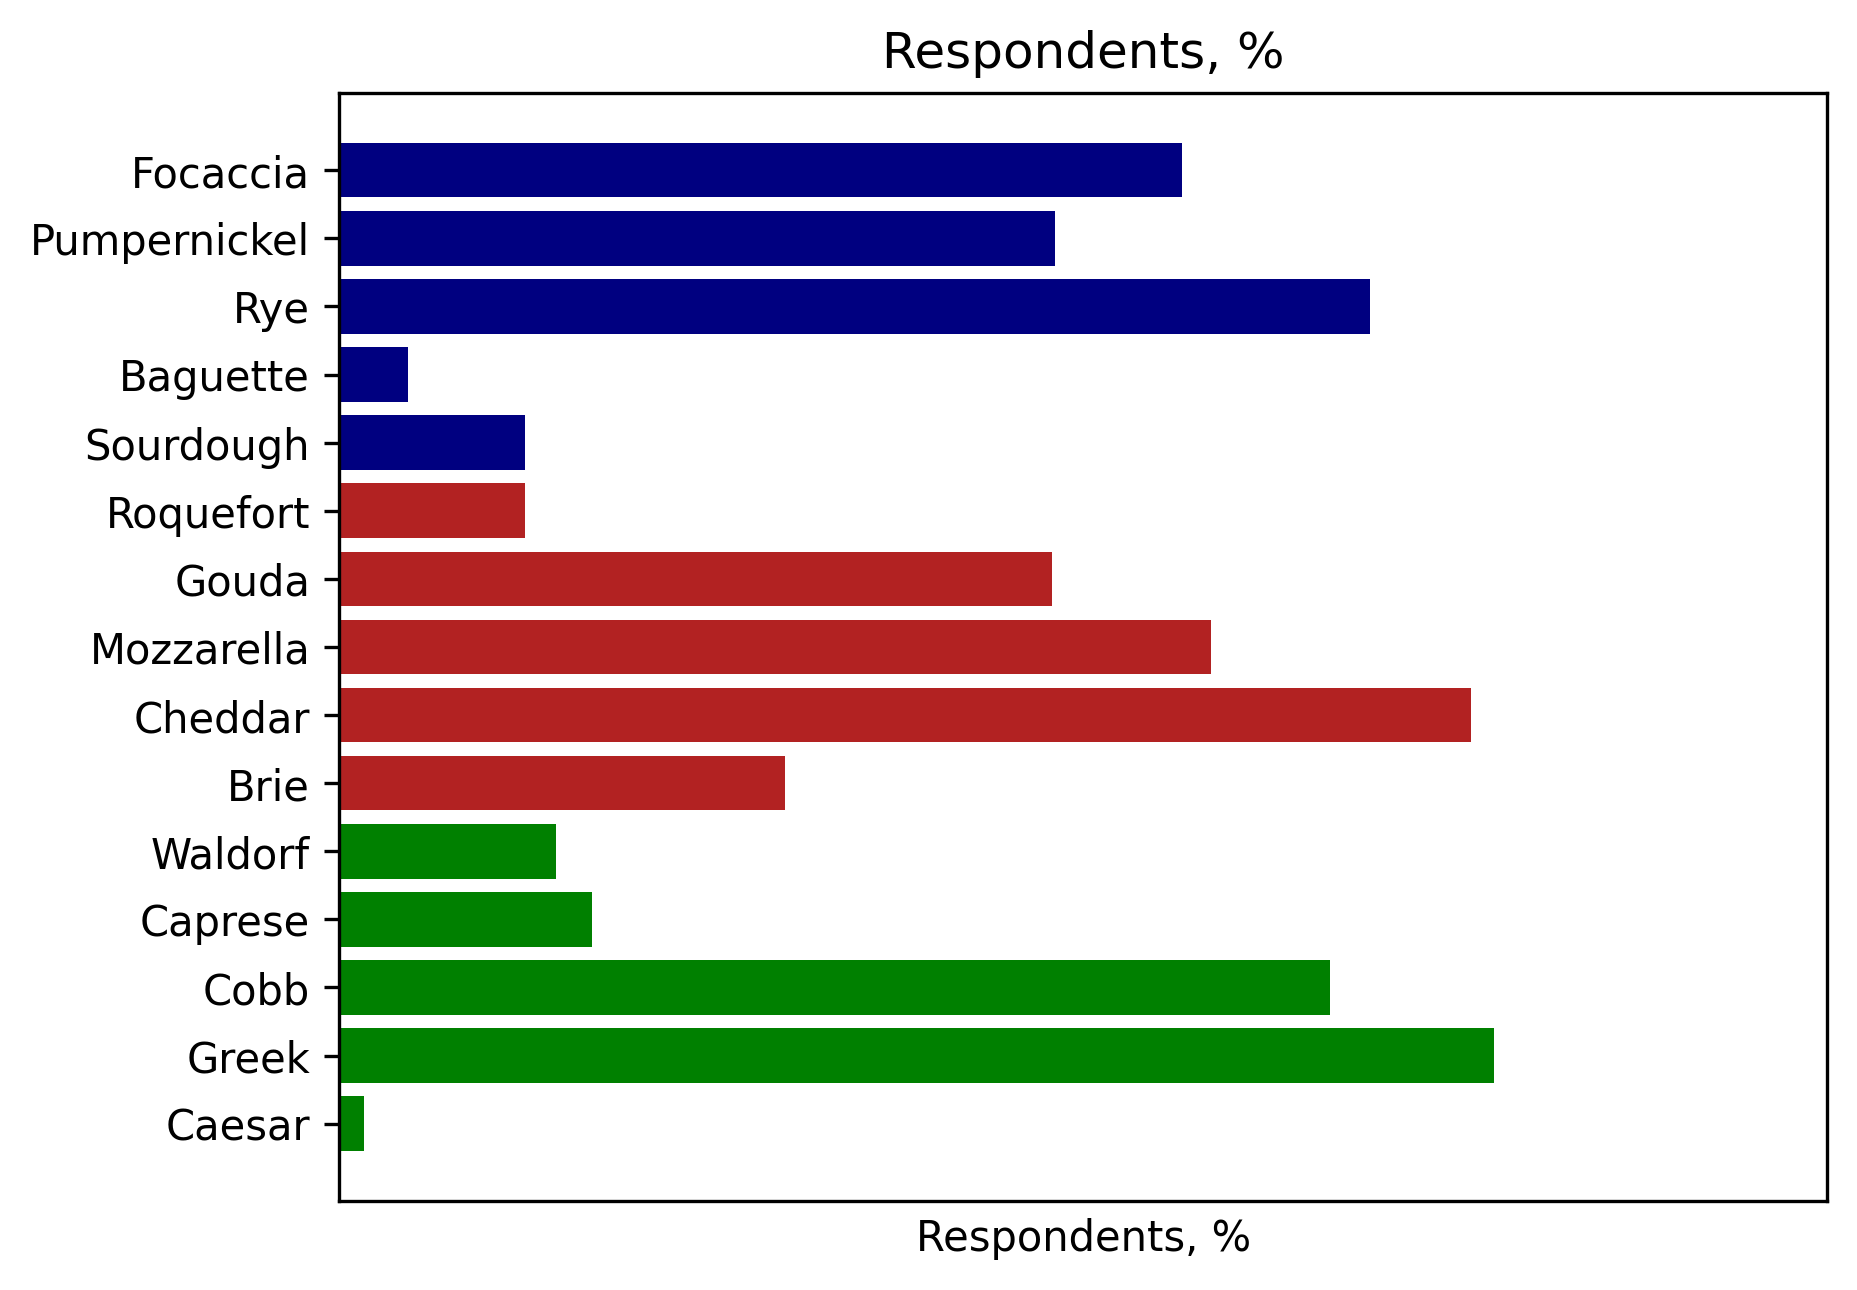
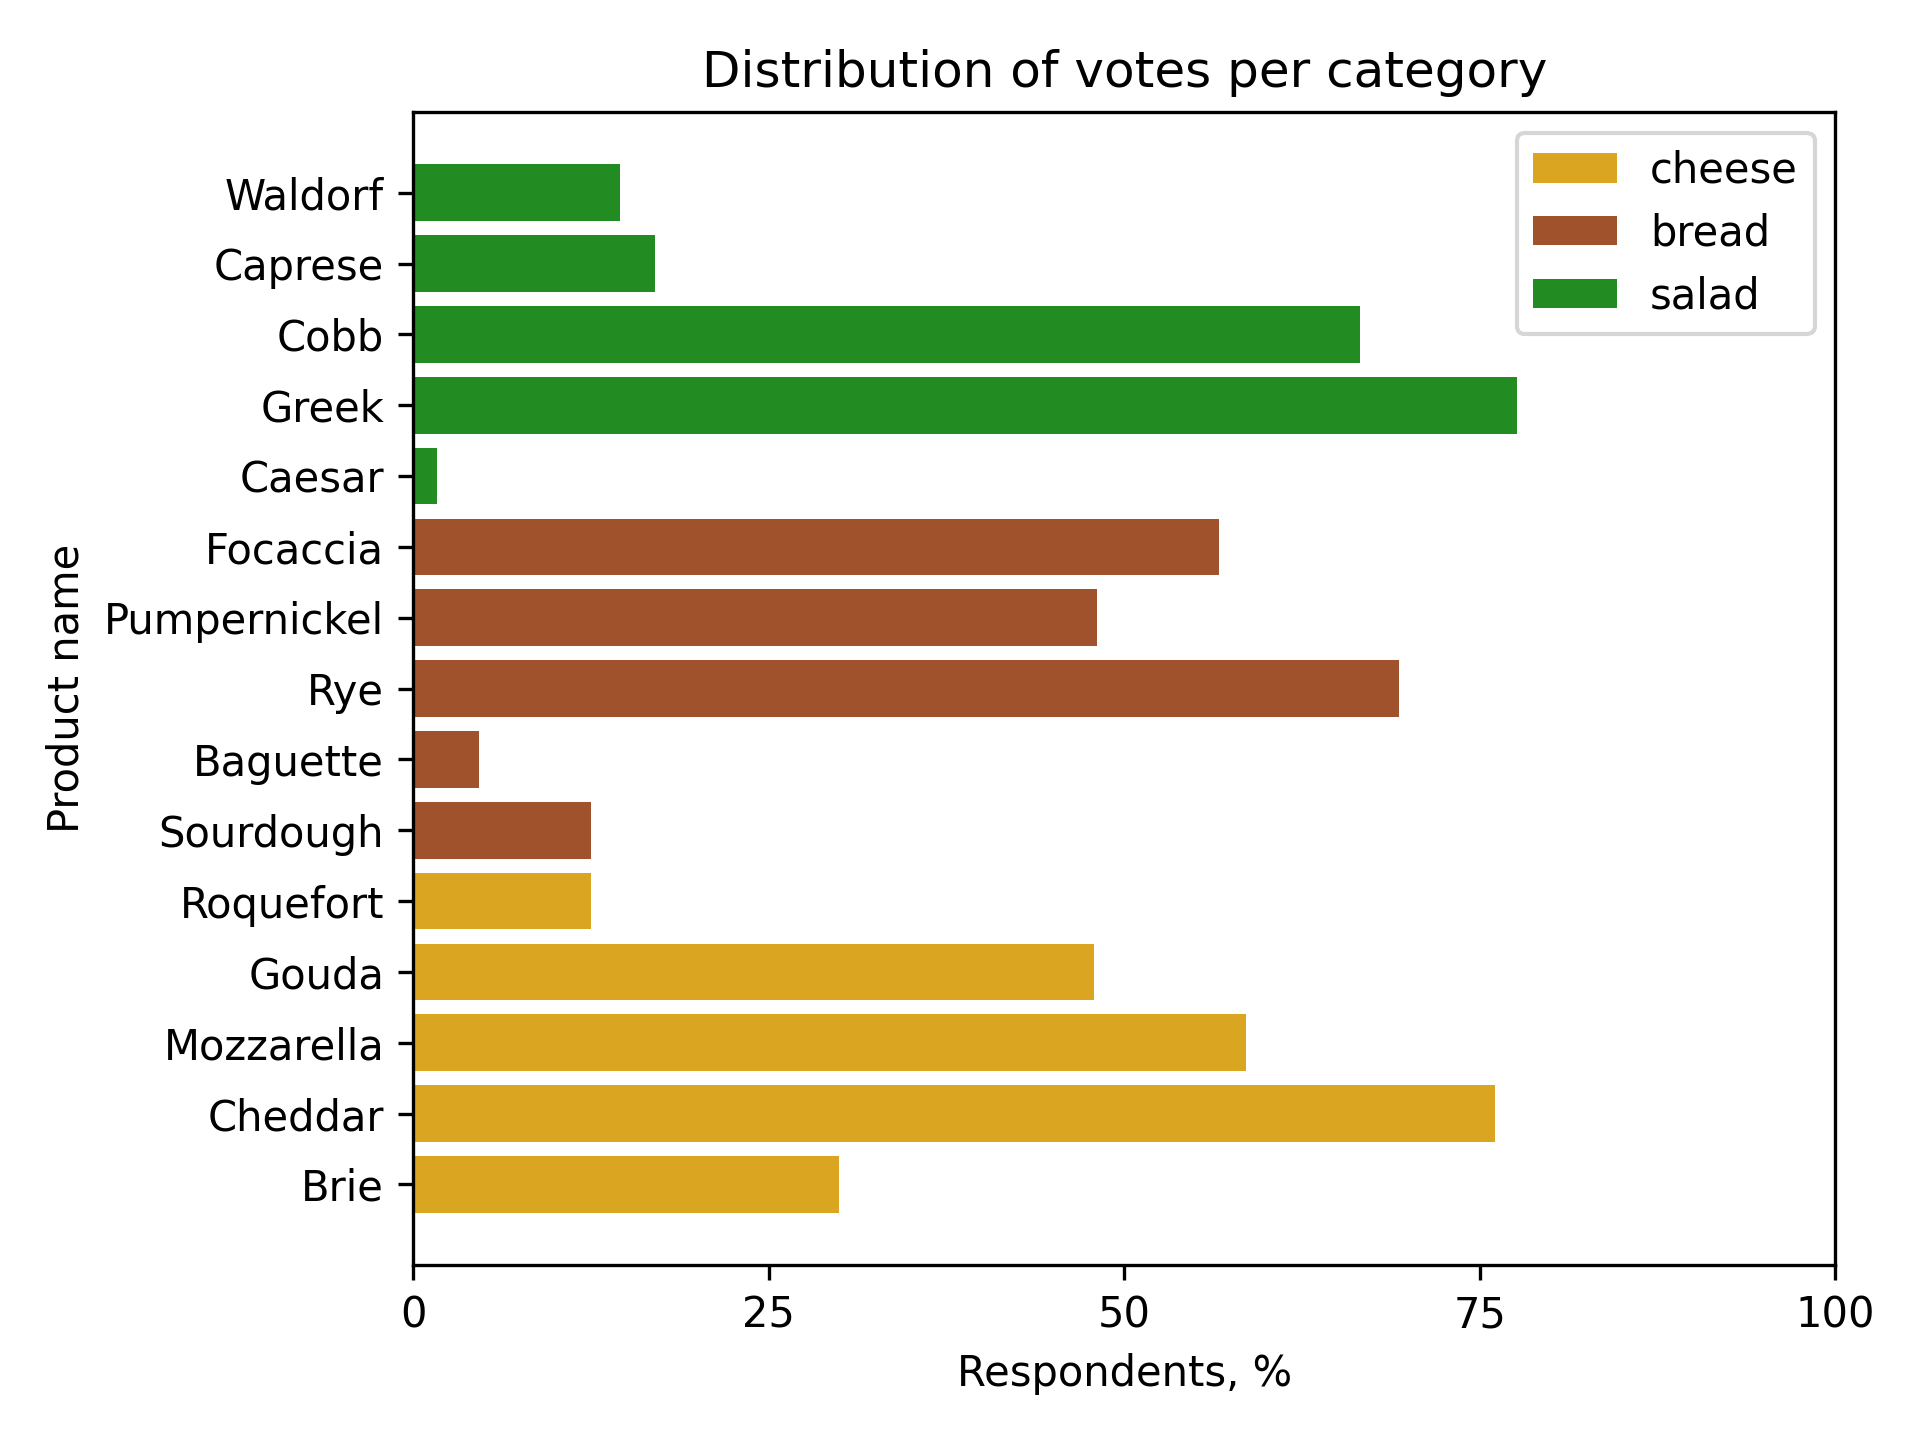
fix: fix PR issues

diff --git a/2_2_bar_and_pie_charts_matplotlib/2_practice/1_base_barplot/tests/test_task.py b/2_2_bar_and_pie_charts_matplotlib/2_practice/1_base_barplot/tests/test_task.py
@@ -5,7 +5,7 @@ import matplotlib.pyplot as plt
 import pandas as pd
 
 from common.base_test_mixins import BaseTestMixin
-from data import get_categories_sorted, get_category_products, get_category_votes, read
+from data import get_categories, get_category_product_names, get_category_size, get_category_votes, read
 from task import plot
 
 
@@ -18,7 +18,6 @@ class TestCase(BaseTestMixin):
         data = read()
         cls.fig = plot(data)
         cls.data = data
-        cls.sorted_categories = get_categories_sorted()
 
     def test_1_1_return_type(self):
         self.checkReturnType(self.fig, expected_type=plt.Figure, expected_function="plt.barh")
@@ -31,51 +30,61 @@ class TestCase(BaseTestMixin):
         self.checkNumberOfLines(self.fig.axes[0], 0)
 
         self.checkNumberOfContainers(self.fig.axes[0], 3)
-        self.checkContainerType(self.fig.axes[0], BarContainer)
-        for container in self.fig.axes[0].containers:
-            self.assertEqual(
-                len(container.datavalues),
-                5,
-                "Each container must have exactly 5 bars.",
+        for i in range(3):
+            self.checkContainerType(self.fig.axes[0], BarContainer, container_number=i)
+
+    def test_1_4_bar_layout(self):
+        self.checkBarLayout(self.fig.axes[0], expected_layout="horizontal")
+
+    def test_2_1_bar_values(self):
+        for i, category in enumerate(get_categories(self.data)):
+            expected_positions = get_category_votes(self.data, category)
+            self.checkBarValues(self.fig.axes[0], expected_positions, container_number=i)
+
+    def test_2_2_bar_position(self):
+        offset = 0
+        for i, category in enumerate(get_categories(self.data)):
+            category_size = get_category_size(self.data, category)
+
+            self.checkBarPositions(
+                self.fig.axes[0],
+                list(range(offset, offset + category_size)),
+                axis="y",
+                container_number=i,
             )
 
-    # TODO: Add test for bars positions
-    def test_2_1_bar_position(self):
-        for index in range(3):
-            expected_positions = get_category_votes(self.data, self.sorted_categories[index])
-            self.checkBarsPosition(self.fig.axes[0], expected_positions, container_number=index)
+            offset += category_size
 
-    def test_2_2_bar_layout(self):
-        self.checkBarsLayout(self.fig.axes[0], expected_layout="horizontal")
+    def test_2_3_bar_colors(self):
+        for i, color in enumerate(["goldenrod", "sienna", "forestgreen"]):
+            expected_colors = [color] * 5
+            self.checkBarColor(self.fig.axes[0], expected_facecolors=expected_colors, container_number=i)
 
-    def test_2_3_bar_labels(self):
-        all_labels = []
-        for category in self.sorted_categories:
-            all_labels.extend(get_category_products(self.data, category))
-        self.checkTickLabels(self.fig.axes[0], all_labels, axis="y")
+    def test_3_1_y_ticks(self):
+        expected_labels = []
+        number_of_products = 0
+        for category in get_categories(self.data):
+            expected_labels.extend(get_category_product_names(self.data, category))
+            number_of_products += get_category_size(self.data, category)
 
-    def test_2_4_bar_colors(self):
-        expected_colors = []
-        for color in ["green", "firebrick", "navy"]:
-            expected_colors.extend([color] * 5)
-        self.checkBarsColor(self.fig.axes[0], expected_facecolors=expected_colors)
+        self.checkTicks(self.fig.axes[0], list(range(number_of_products)), axis="y")
+        self.checkTickLabels(self.fig.axes[0], expected_labels, axis="y")
 
-    def test_3_1_labels(self):
-        self.checkLabel(self.fig.axes[0], "Respondents, %", "x")
+    def test_3_2_y_label(self):
+        self.checkLabel(self.fig.axes[0], "Product name", axis="y")
 
-    def test_3_2_x_lim(self):
+    def test_4_1_x_lim(self):
         self.checkLim(self.fig.axes[0], [0, 100], "x")
 
-    def test_3_3_x_ticks(self):
-        self.checkTicks(self.fig.axes[0], [], "x")
+    def test_4_2_x_ticks(self):
+        self.checkTicks(self.fig.axes[0], list(range(0, 101, 25)), axis="x")
+        self.checkTickLabels(self.fig.axes[0], list(map(str, range(0, 101, 25))), axis="x")
 
-    def test_3_4_y_ticks(self):
-        expected_positions = list(range(15))
-        expected_labels = []
-        for category in self.sorted_categories:
-            expected_labels.extend(get_category_products(self.data, category))
-        self.checkTicks(self.fig.axes[0], expected_positions, "y")
-        self.checkTickLabels(self.fig.axes[0], expected_labels, "y")
+    def test_4_3_x_label(self):
+        self.checkLabel(self.fig.axes[0], "Respondents, %", "x")
 
-    def test_4_title(self):
-        self.checkTitle(self.fig.axes[0], "Respondents, %")
+    def test_5_title(self):
+        self.checkTitle(self.fig.axes[0], "Distribution of votes per category")
+
+    def test_6_legend(self):
+        self.checkLegendExists(self.fig.axes[0])

diff --git a/2_2_bar_and_pie_charts_matplotlib/2_practice/1_base_barplot/task.py b/2_2_bar_and_pie_charts_matplotlib/2_practice/1_base_barplot/task.py
@@ -1,46 +1,55 @@
 import matplotlib.pyplot as plt
 import pandas as pd
 
-from data import get_categories_sorted, get_category_products, get_category_size, get_category_votes, read
+from data import get_categories, get_category_product_names, get_category_size, get_category_votes, read
 
 
-def plot_region(ax: plt.Axes, data: pd.DataFrame, category: str, color: str, trace: int = 0):
-    category_votes = get_category_votes(data, category)
-    category_size = get_category_size(data, category)
+def plot_category(ax: plt.Axes, votes: pd.DataFrame, category: str, color: str, offset: int = 0):
+    category_votes = get_category_votes(votes, category)
+    category_size = get_category_size(votes, category)
 
     ax.barh(
-        [x + trace for x in range(category_size)],
+        [x + offset for x in range(category_size)],
         category_votes,
         color=color,
+        label=category,
     )
 
 
 def plot(votes: pd.DataFrame) -> plt.Figure:
     fig, ax = plt.subplots()
-    categories_sorted = get_categories_sorted()
 
     colors = {
-        "salad": "green",
-        "cheese": "firebrick",
-        "bread": "navy",
+        "bread": "sienna",
+        "cheese": "goldenrod",
+        "salad": "forestgreen",
     }
 
-    all_y_coordinates = []
-    all_labels = []
+    y_tick_coordinates = []
+    y_tick_labels = []
 
-    for i, category in enumerate(categories_sorted):
+    offset = 0
+    for category in get_categories(votes):
         category_size = get_category_size(votes, category)
-        plot_region(ax, votes, category, colors[category], i * category_size)
 
-        all_labels.extend(get_category_products(votes, category))
-        all_y_coordinates.extend([i * category_size + x for x in range(category_size)])
+        plot_category(ax, votes, category, colors[category], offset)
 
-    ax.set_xticks([])
-    ax.set_title("Respondents, %")
-    ax.set_xlabel("Respondents, %")
+        y_tick_labels.extend(get_category_product_names(votes, category))
+        y_tick_coordinates.extend([x + offset for x in range(category_size)])
+
+        offset += category_size
+
+    ax.set_yticks(y_tick_coordinates, y_tick_labels)
+    ax.set_ylabel("Product name")
+
     ax.set_xlim(0, 100)
-    ax.set_yticks(all_y_coordinates)
-    ax.set_yticklabels(all_labels)
+    ax.set_xticks(range(0, 101, 25))
+    ax.set_xlabel("Respondents, %")
+
+    ax.set_title("Distribution of votes per category")
+    ax.legend()
+
+    fig.tight_layout()
 
     return fig
 
@@ -49,7 +58,7 @@ def main():
     votes = read()
 
     fig = plot(votes)
-    fig.savefig("plot.png", dpi=300, bbox_inches="tight")
+    fig.savefig("plot.png", dpi=300)
 
 
 if __name__ == "__main__":

diff --git a/2_2_bar_and_pie_charts_matplotlib/2_practice/1_base_barplot/data.py b/2_2_bar_and_pie_charts_matplotlib/2_practice/1_base_barplot/data.py
@@ -4,20 +4,20 @@ from common.paths import FOOD_DATASET_PATH
 
 
 def read() -> pd.DataFrame:
-    return pd.read_csv(FOOD_DATASET_PATH, index_col=0)
+    return pd.read_csv(FOOD_DATASET_PATH)
 
 
 def get_category_votes(data: pd.DataFrame, category: str) -> pd.Series:
-    return data[data["food"] == category]["proportion"]
+    return data[data["category"] == category]["votes"]
 
 
-def get_category_products(data: pd.DataFrame, category: str) -> pd.DataFrame:
-    return data[data["food"] == category]["value"]
+def get_category_product_names(data: pd.DataFrame, category: str) -> pd.DataFrame:
+    return data[data["category"] == category]["name"]
 
 
 def get_category_size(data: pd.DataFrame, category: str) -> int:
-    return data[data["food"] == category].shape[0]
+    return len(data[data["category"] == category])
 
 
-def get_categories_sorted() -> list:
-    return ["salad", "cheese", "bread"]
+def get_categories(data: pd.DataFrame) -> list:
+    return list(data["category"].unique())

diff --git a/2_2_bar_and_pie_charts_matplotlib/2_practice/1_base_barplot/task.md b/2_2_bar_and_pie_charts_matplotlib/2_practice/1_base_barplot/task.md
@@ -1,25 +1,36 @@
 ## Task
 
-At a recent tasting event, participants were invited to sample an assortment of breads, cheeses, and salads. Everyone
-had the chance to vote for as many items as they liked, sharing their favorites among the diverse offerings. The
-organizers of a tasting event received all the responses, calculated themselves the percentage of votes for each product
-in each category (so that they know the corresponding distribution along cheese, bread and salad). Now they want us to
-help
-with plotting the data. Let's assist them!
+At a recent tasting event, participants were invited to sample an assortment of breads, cheeses, and salads.
+Everyone had the chance to vote for as many items as they liked, sharing their favorites among the diverse offerings.
+The organizers of a tasting event received all the responses,
+calculated themselves the percentage of votes for each product in each category
+(so that they know the corresponding distribution along cheese, bread, and salad).
+Now they want us to help with plotting the data.
+Let's help them!
 
-In order to interpret the data, the organizers want to see the distribution of votes for each category at a single
-horizontal bar chart. So you should plot categories from top to bottom as follows: `bread`, `cheese`, and `salad`.
+To interpret the data,
+the organizers want to see the distribution of votes for each category in a single horizontal bar chart.
+So you should plot categories from bottom to top as follows: `cheese`, `bread`, and `salad`.
 
 The other requirements are:
 
-1. The bars should be colored as follows: `bread` - `navy`, `cheese` - `firebrick`, `salad` - `green`.
-2. Each bar should have the corresponding product label on the left side of the bar (i.e. `cheddar`).
-3. Limit the x-axis view to the interval from `0` to `100`.
-4. Remove ticks along the x-axis.
-5. Label the x-axis as `Respondents, %`.
-6. Set the chart title as `Respondents, %`.
+1. The bars should be colored as follows: `bread` - `sienna`, `cheese` - `goldenrod`, `salad` - `forestgreen`.
+2. Each bar should have the corresponding product name on the left side of the bar (i.e. `cheddar`).
+3. Set the y-axis label as `Product name`.
+4. Limit the x-axis view to the interval from `0` to `100`.
+5. The x-axis should have only these ticks: `0`, `25`, `50`, `75` and `100`.
+6. Set the x-axis label as `Respondents, %`.
+7. Set the chart title as `Distribution of votes per category`.
+8. Add the legend.
+9. Tighten the layout.
 
-Note that the width of each bar is `1` and the amount of product in each category is `5`. You also don't need to preprocess the data.
+Note that you don't need to preprocess the data.
+
+You could also use the following hidden function:
+1. `get_category_votes` to get all votes for the specific category.
+2. `get_category_product_names` to get all product names for the specific category.
+3. `get_category_size` to get a number of products in the specific category.
+4. `get_categories` to get a list of categories.
 
 If you get stuck, please feel free to use the hints below, where you can also find what the final figure should look
 like.
@@ -30,14 +41,39 @@ like.
     <img src="example.png" alt="What the figure should look like" style="max-height: 500px">
 </div>
 
-<div class="hint" title="How to set the labels for the products?">
-    You can use <code>ax.set_yticks()</code> and <code>ax.set_yticklabels()</code> methods to set the labels for the products.
-</div>
-
 <div class="hint" title="How to set the colors for the bars?">
-    You can use the <code>color</code> argument of the <code>barh()</code> method to set the colors for the bars.
+    To set the colors for the bars, you can use the <code>color</code> argument of the <code>ax.barh</code> method:
+    <code>ax.barh(positions, values, color="red")</code>
 </div>
 
-<div class="hint" title="How to remove x axis ticks?">
+<div class="hint" title="How to set the labels for the products?">
+    To set the labels for the products, you can use the <code>ax.set_yticks()</code> method:
+    <code>ax.set_yticks([1, 2, 3], ["cucumber", "carrot", "tomato"])</code>
+</div>
+
+<div class="hint" title="How to limit the x-axis?">
+    To limit the x-axis view, you can use the <code>set_xlim</code> method:
+    <code>ax.set_xlim(1, 3)</code>.
+</div>
+
+<div class="hint" title="How to set ticks for the x-axis?">
+    To set ticks for the x-axis, you can use the <code>set_xticks</code> method:
+    <code>ax.set_xticks([1, 2, 3])</code>.
+</div>
+
+<div class="hint" title="How to set the title?">
     You can use the <code>set_xticks()</code> method with an empty list to remove the x-axis ticks.
+</div>
+
+<div class="hint" title="How to set the figure title?">
+    To set the figure title, you can use the <code>set_title</code> method:
+    <code>ax.set_tile("Title")</code>.
+</div>
+
+<div class="hint" title="How to add a legend?">
+    To add a legend, you should call the <code>ax.legend</code> method.
+</div>
+
+<div class="hint" title="How to tighten the layout?">
+    To tighten the layout, you should call the <code>fig.tight_layout</code> method.
 </div>
